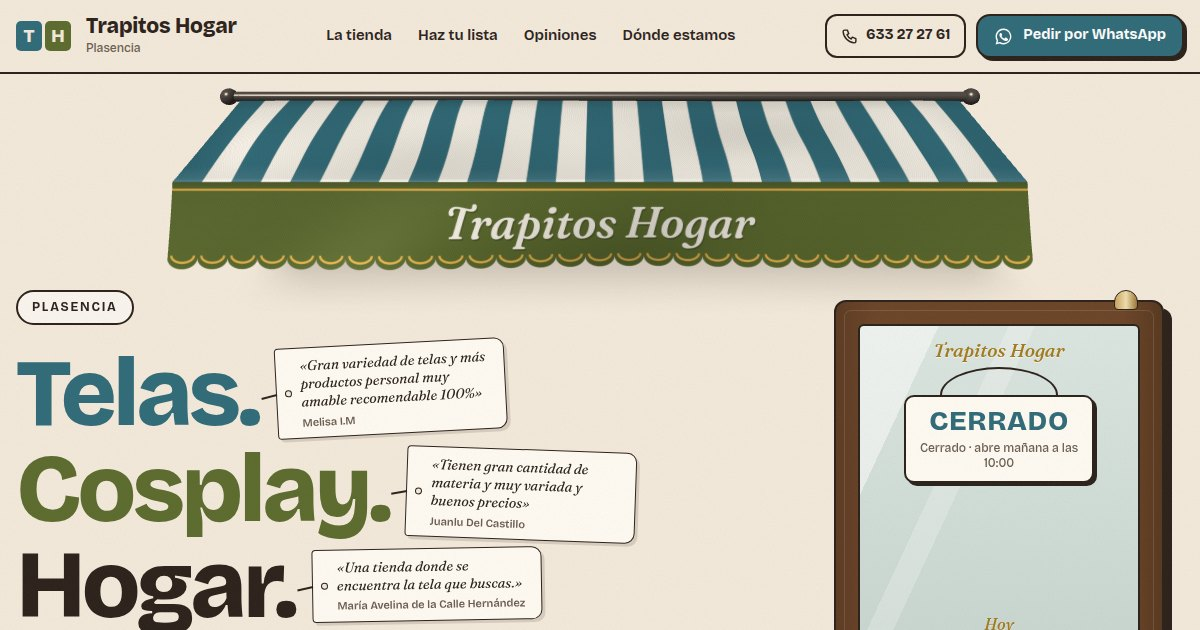
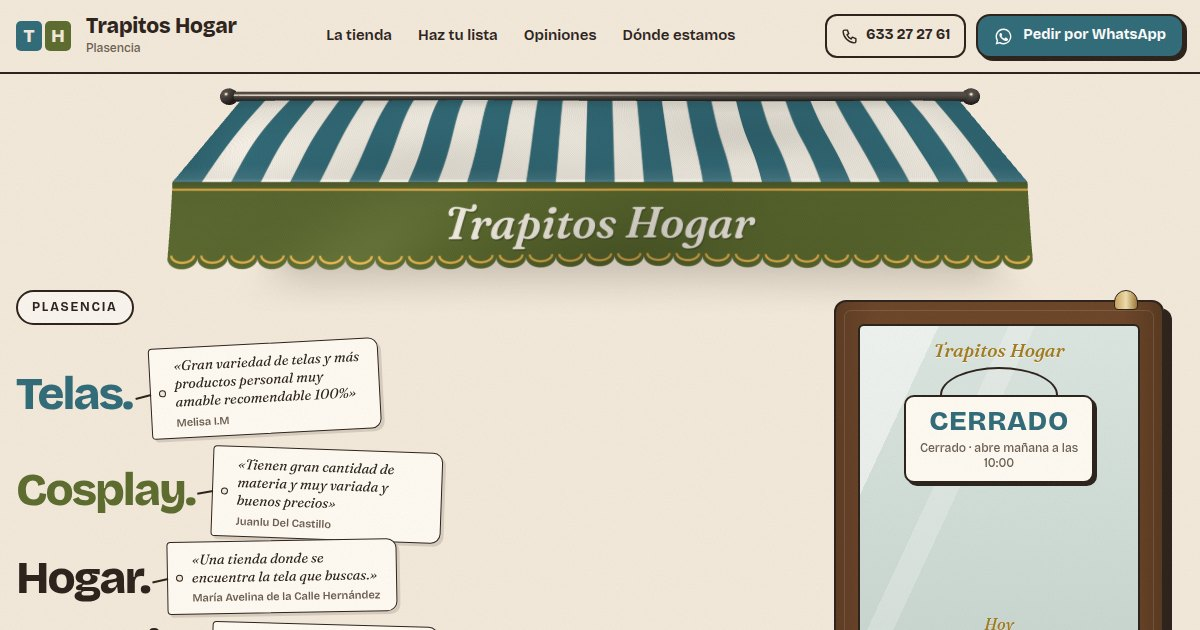
Trapitos Hogar: palabras de portada más pequeñas

Changed region(s): [[0.0, 0.5429, 0.5242, 1.0], [0.5242, 0.7238, 0.555, 0.8444]]

diff --git a/demos/trapitos-hogar-plasencia.html b/demos/trapitos-hogar-plasencia.html
@@ -73,7 +73,7 @@ transform:rotate(var(--r)) scale(2.4);opacity:0;animation:a02-sella .32s cubic-b
 .hero #a02-toldo{min-height:220px;background:transparent;-webkit-mask:linear-gradient(#000 calc(100% - 46px),transparent);mask:linear-gradient(#000 calc(100% - 46px),transparent)}
 .hero #a02-toldo .tl-sr{overflow:visible}
 .hero-in{position:relative;z-index:1;display:grid;grid-template-columns:1.35fr .65fr;gap:30px;align-items:start;margin-top:clamp(-30px,-2vw,0px)}
-.palabras{list-style:none;margin:24px 0 26px;--fs:min(96px,calc(640px / (var(--L) * .6)),calc(46vw / (var(--L) * .6)))}
+.palabras{list-style:none;margin:24px 0 26px;--fs:min(46px,calc(640px / (var(--L) * .6)),calc(46vw / (var(--L) * .6)))}
 .palabras li{display:flex;flex-wrap:wrap;align-items:center;gap:6px 18px;margin-bottom:6px}
 .palabras b{font:800 var(--fs)/.92 var(--sans);white-space:nowrap;letter-spacing:-.045em}
 .palabras .w1 b{color:var(--rojo)}.palabras .w2 b{color:var(--oliva)}.palabras .w3 b{color:var(--tinta)}
@@ -114,7 +114,7 @@ display:flex;flex-direction:column;align-items:center;padding:14px 10px 12px}
 .zocalo{position:absolute;left:22px;right:22px;bottom:16px;height:16%;border:2px solid rgba(0,0,0,.25);border-radius:4px;background:linear-gradient(180deg,rgba(255,255,255,.05),rgba(0,0,0,.08));z-index:0}
 .campana{position:absolute;right:24px;top:-12px;width:24px;height:20px;border-radius:12px 12px 4px 4px;background:linear-gradient(90deg,#C9A45F,#F1DFAE,#9C7735);border:1.5px solid var(--tinta);z-index:1;transform-origin:50% 0}
 @media(max-width:960px){.hero-in{grid-template-columns:1fr}.puerta-w{justify-content:flex-start}.puerta{width:min(100%,300px)}}
-@media(max-width:620px){.palabras{--fs:min(17vw,calc((100vw - 32px) / (var(--L) * .6)))}.palabras li{flex-wrap:wrap;gap:4px 10px;margin-bottom:10px}.colg{max-width:100%;font-size:13px;margin:2px 0 6px 18px}
+@media(max-width:620px){.palabras{--fs:min(36px,calc((100vw - 32px) / (var(--L) * .6)))}.palabras li{flex-wrap:wrap;gap:4px 10px;margin-bottom:10px}.colg{max-width:100%;font-size:13px;margin:2px 0 6px 18px}
 .puerta-w{justify-content:center}.puerta{width:min(100%,280px)}}
 
 /* ---------- cinta */
